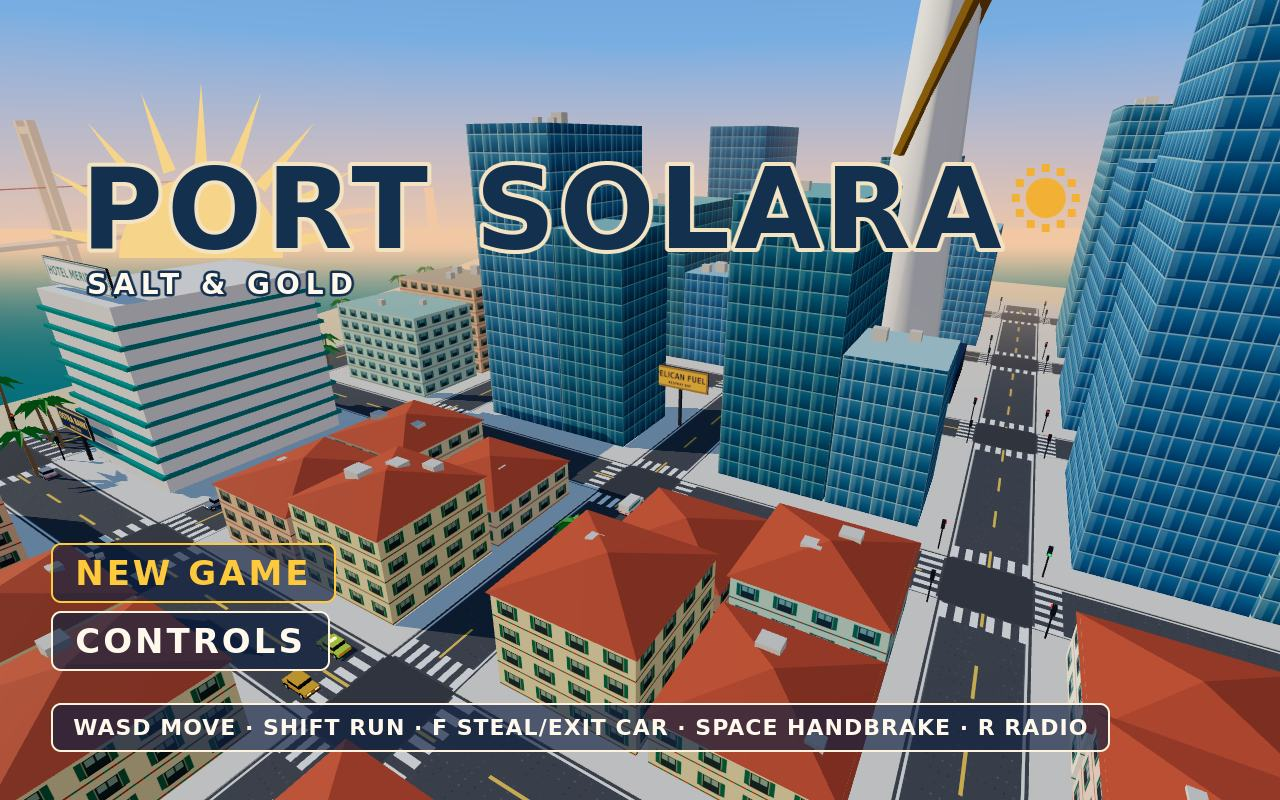
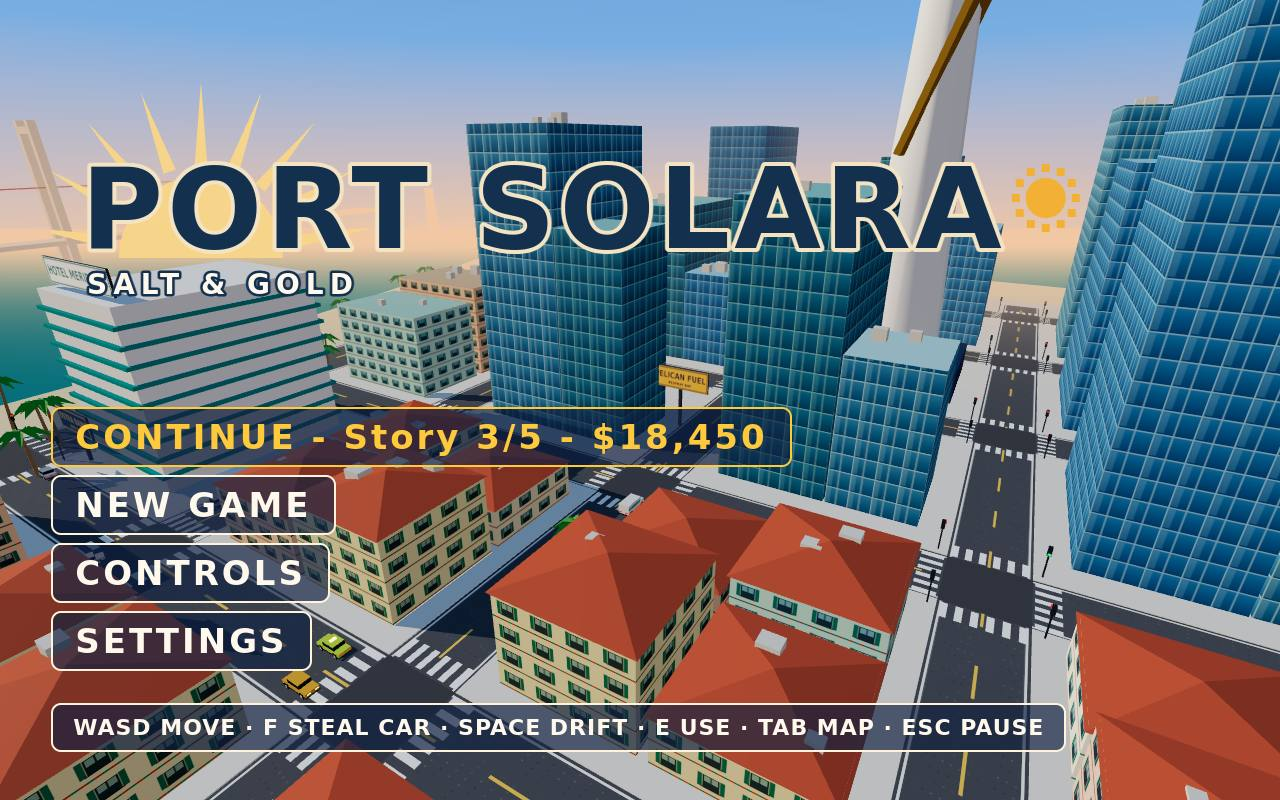
M5 step 5: self-test adds save (safehouse save, reload, title reads 'CONTINUE - Story 3/5 - $18,450', load gives back cash, REP, story, counts, best lap, weapons and spot), settings (persist over a reload, LOW = no shadows / 300 m), race (Coral Circuit through its checkpoints with test teleports, $1

Changed region(s): [[0.0312, 0.5, 0.625, 0.8438], [0.2188, 0.875, 0.875, 0.9375]]

diff --git a/game/src/dev/screenshot-scenes.js b/game/src/dev/screenshot-scenes.js
@@ -13,6 +13,29 @@ export function stageScreenshotScene(game, name) {
   requestAnimationFrame(() => requestAnimationFrame(() => { window.__shotReady = true; }));
 }
 
+// The one save state behind all four shots: missions 1 and 2 done (story 3/5), REP 640 (rank 4
+// WHEELMAN), $18,450, North Ring won, three courier drops, the Hornet still locked, saved at
+// Calloway Salvage at 14:32 (UTC, the headless clock). The title's CONTINUE line reads it back.
+export const SHOT_SAVE = { story: ['ferry', 'market'], rep: 640, cash: 18450, races: 1, bestLaps: { race1: 52.4 }, courier: 3, savedAt: Date.UTC(2026, 10, 20, 14, 32), place: 'Calloway Salvage' };
+
+function seedShotSave(game) {
+  for (const id of SHOT_SAVE.story) game.missions.completed.add(id);
+  game.missions.rep = SHOT_SAVE.rep;
+  game.cash = SHOT_SAVE.cash;
+  Object.assign(game.progress, { races: SHOT_SAVE.races, bestLaps: { ...SHOT_SAVE.bestLaps }, courier: SHOT_SAVE.courier, savedAt: { clock: '14:32', place: SHOT_SAVE.place } });
+}
+
+// Writes the shared save into slot 2 as a real record (as the safehouse [E] would) at the fixed time.
+function writeShotSave(game) {
+  localStorage.clear();
+  const h = game.spots.find((p) => p.id === 'safehouse');
+  const at = { x: game.player.x, z: game.player.z };
+  game.player.x = h.x + 1; game.player.z = h.z;
+  game.focus = game.player;
+  localStorage.setItem('port-solara/save-slot-2', JSON.stringify({ ...game.captureSave(SHOT_SAVE.place), slot: 2, savedAt: SHOT_SAVE.savedAt }));
+  game.player.x = at.x; game.player.z = at.z;
+}
+
 // Cover framing: the arm behind and above the Albacore (it fills about 28% of the width), TIDE 14's
 // offset ahead/left of it, and SKYLARK 1's screen point (NDC) and height.
 const FRAME = { back: 2.8, up: 1.55, tideAhead: 8, tideLeft: -3.4, heliX: -0.08, heliY: 0.4, heliUp: 13 };
@@ -56,10 +79,9 @@ export const SCENES = {
     wl.clear();
     wl.commit('theft', car.x, car.z, 3);
     wl.commit('copAssault', car.x, car.z);
-    // The same save state as every shot: mission 1 done (REP and cash paid), mission 3 at its
-    // "lose the SPD" step with Mara on the radio.
-    game.missions.completed.add('ferry');
-    game.missions.rep = 380;
+    // The same save state as every shot (SHOT_SAVE), mission 3 at its "lose the SPD" step with
+    // Mara on the radio.
+    seedShotSave(game);
     game.missions.start(game.story[2], 3);
     // Wren carries the Wasp in this save state: the weapon panel shows it, its ammo and the slots.
     game.arms.select(1);
@@ -94,8 +116,7 @@ export const SCENES = {
     hold([], 300);
     game.crowd.gatherNear(152, 70, 10, 16);
     game.startPlay();
-    game.missions.completed.add('ferry');
-    game.missions.rep = 380;
+    seedShotSave(game);
     game.player.x = STREET.x; game.player.z = STREET.z; game.player.facing = 0.05; game.chase.yaw = 0.05;
     // The curbside Pipit by the arch moves on, so the parked coupe is the car within reach.
     const pipit = game.cars.find((c) => c.name === 'PIPIT' && Math.hypot(c.x - 156.5, c.z - 73) < 1);
@@ -116,8 +137,21 @@ export const SCENES = {
     hold([], 50);
     aim(); hold(['Mouse0'], 1); hold([], 2);
   },
-  // The title over a drone orbit of the live city (the title's save state has no fight running).
+  // The Tab map on the shared save: story 3/5 with The Harbor Run current, Races 1/4,
+  // Courier 3/10, REP rank 4, cash and "Saved 14:32 - Calloway Salvage"; Wren on Palmline.
+  map(game, hold) {
+    hold([], 300);
+    game.startPlay();
+    seedShotSave(game);
+    hold([], 60);
+    game.openPause('map');
+  },
+  // The title over a drone orbit of the live city, with CONTINUE read back from the shared save
+  // written into slot 2 as a real record.
   title(game) {
     for (let i = 0; i < 420; i++) game.step();
+    seedShotSave(game);
+    writeShotSave(game);
+    game.quitToTitle();
   },
 };

diff --git a/game/src/ui/menus-and-map.js b/game/src/ui/menus-and-map.js
@@ -427,7 +427,7 @@ export function showTitleScreen(game, onNewGame) {
 
   const strip = document.createElement('div');
   strip.className = 'controls-strip';
-  strip.textContent = 'WASD MOVE · F STEAL/EXIT CAR · SPACE HANDBRAKE · E USE · R RADIO · TAB MAP · ESC PAUSE';
+  strip.textContent = 'WASD MOVE · F STEAL CAR · SPACE DRIFT · E USE · TAB MAP · ESC PAUSE';
   root.append(controls, menu, strip);
 
   const onKey = (e) => {

diff --git a/game/src/core/save-slots.js b/game/src/core/save-slots.js
@@ -154,6 +154,7 @@ export function installSaveSlots(game) {
     return r;
   };
   game.loadSave = (s) => applyState(game, s);
+  game.captureSave = (place) => captureState(game, place);
   game.newGameState = () => { applyState(game, fresh); game.progress.savedAt = null; };
 }
 
